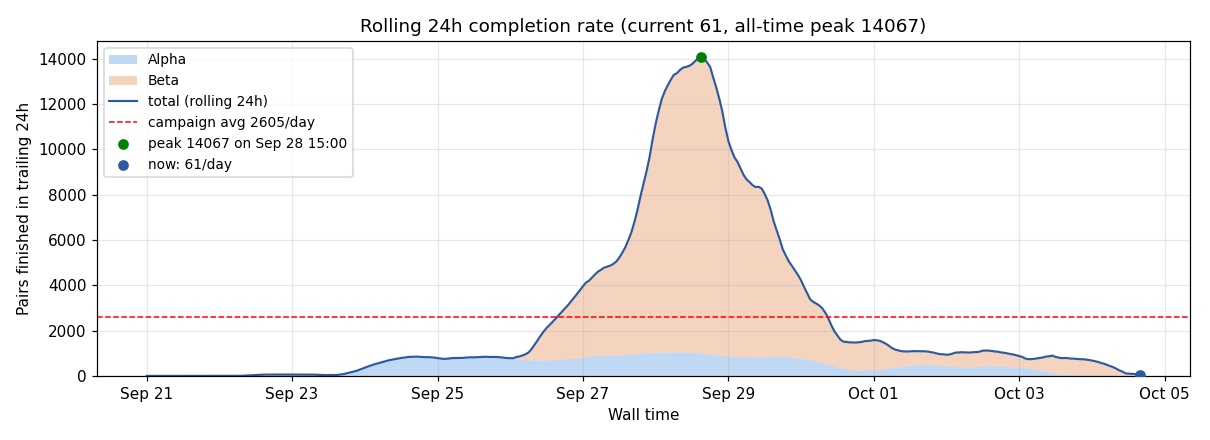
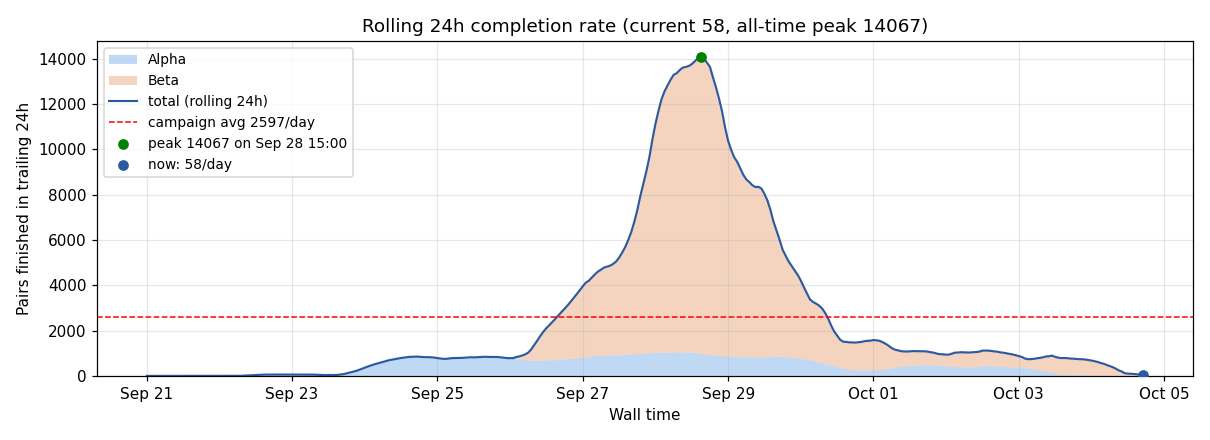
auto: 2026-10-04 16:22:28

diff --git a/index.html b/index.html
@@ -24,21 +24,21 @@ tr:nth-child(even) { background: #fafafa; }
 </style>
 </head><body>
 <h1>AF3 Campaign Dashboard</h1>
-<p class="stamp">Last updated: <strong>2026-10-04 15:20 EDT</strong> · regenerated on the cluster hourly · this page auto-reloads every 30 min</p>
+<p class="stamp">Last updated: <strong>2026-10-04 16:24 EDT</strong> · regenerated on the cluster hourly · this page auto-reloads every 30 min</p>
 
 <div class="cards">
   <div class="card"><div class="v">35,750</div><div class="l">Total COMPLETED pairs</div></div>
   <div class="card"><div class="v">0</div><div class="l">Done today</div></div>
-  <div class="card"><div class="v">63</div><div class="l">Last 24 h rate</div></div>
-  <div class="card"><div class="v">1 / 0</div><div class="l">Alpha jobs running / pending (1 GPU each)</div></div>
+  <div class="card"><div class="v">60</div><div class="l">Last 24 h rate</div></div>
+  <div class="card"><div class="v">0 / 0</div><div class="l">Alpha jobs running / pending (1 GPU each)</div></div>
   <div class="card"><div class="v">0 / 0</div><div class="l">Beta jobs running / pending (4× GB200 each)</div></div>
-  <div class="card"><div class="v">63</div><div class="l">Beta pairs, last 24 h</div></div>
+  <div class="card"><div class="v">60</div><div class="l">Beta pairs, last 24 h</div></div>
   <div class="card"><div class="v">∞</div><div class="l">ETA, adjusted for pair size (0 pairs left)</div></div>
   <div class="card"><div class="v">0.0 days</div><div class="l">ETA, linear (pairs left / last-24h pairs)</div></div>
 </div>
 
 <h2>Beta (GB200) jobs</h2>
-<p class='stamp'>Beta snapshot 7 min old (refreshed every 10 min from the Beta login node).</p>
+<p class='stamp'>Beta snapshot 10 min old (refreshed every 10 min from the Beta login node).</p>
 <div class="queue-table">
 <table><thead><tr><th>Job</th><th>State</th><th>Elapsed</th><th>Left</th><th>Pairs done</th><th>Node / reason</th></tr></thead>
 <tbody><tr><td colspan=6><em>none</em></td></tr></tbody></table>
@@ -47,10 +47,10 @@ tr:nth-child(even) { background: #fafafa; }
 <h2>Alpha live queue</h2>
 <div class="plots">
   <div>
-    <h3>RUNNING (1)</h3>
+    <h3>RUNNING (0)</h3>
     <div class="queue-table">
       <table><thead><tr><th>Job</th><th>Elapsed</th><th>Left</th><th>Reason / Node</th></tr></thead>
-      <tbody><tr><td>af3_final_score</td><td>1:55:49</td><td>2:04:11</td><td>betagg03</td></tr></tbody></table>
+      <tbody><tr><td colspan=4><em>none</em></td></tr></tbody></table>
     </div>
   </div>
   <div>
